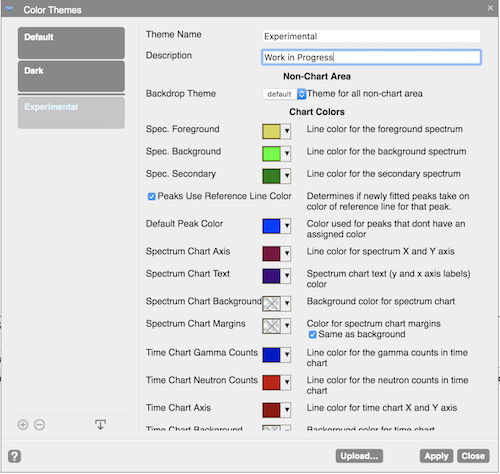
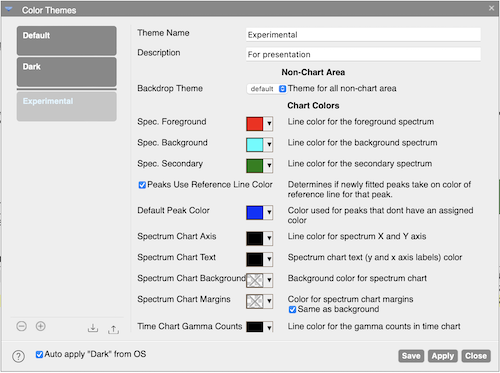
Created an option to control wether or not InterSpec will transition to the "dark" color theme when the OS does.
Previously there was no indication to the user that they had to create and select a custom color theme in order to prevent InterSpec from applying the OS color scheme.

diff --git a/js/InterSpec.js b/js/InterSpec.js
@@ -395,28 +395,43 @@ function()
 
 
 //Requires {macOS 10.14, iOS 13.0, iPadOS 13.0, Windows 10} and {Chrome 76, Safari 12.1, Firefox 67}
+
+WT_DECLARE_WT_MEMBER
+(DetectOsColorThemeJs, Wt::JavaScriptFunction, "DetectOsColorThemeJs",
+function(id)
+{
+  try
+  {
+    const darkQ = window.matchMedia('(prefers-color-scheme: dark)');
+    const lightQ = window.matchMedia('(prefers-color-scheme: light)');
+    const noPrefQ = window.matchMedia('(prefers-color-scheme: no-preference)');
+    
+    if( darkQ.matches )
+      Wt.emit( id, {name: 'OsColorThemeChange' }, 'dark' );
+    else if( lightQ.matches )
+      Wt.emit( id, {name: 'OsColorThemeChange' }, 'light' );
+    else if( noPrefQ.matches )
+      Wt.emit( id, {name: 'OsColorThemeChange' }, 'no-preference' );
+    else
+      throw 'no-support';
+  }catch(error)
+  {
+    Wt.emit( id, {name: 'OsColorThemeChange' }, 'no-support' );
+  }
+});
+
 WT_DECLARE_WT_MEMBER
 (SetupOsColorThemeChangeJs, Wt::JavaScriptFunction, "SetupOsColorThemeChangeJs",
 function(id)
 {
   try
   {
-    var darkQ = window.matchMedia('(prefers-color-scheme: dark)');
-    var lightQ = window.matchMedia('(prefers-color-scheme: light)');
-    var noPrefQ = window.matchMedia('(prefers-color-scheme: no-preference)');
-    var isSupported = darkQ.matches || lightQ.matches || noPrefQ.matches;
+    const darkQ = window.matchMedia('(prefers-color-scheme: dark)');
+    const lightQ = window.matchMedia('(prefers-color-scheme: light)');
+    const noPrefQ = window.matchMedia('(prefers-color-scheme: no-preference)');
     
-    if( !isSupported )
-      throw 'no-support';
-    
-    if( darkQ.matches )
-      Wt.emit( id, {name: 'OsColorThemeChange' }, 'dark' );
-    
-    if( lightQ.matches )
-      Wt.emit( id, {name: 'OsColorThemeChange' }, 'light' );
-    
-    if( noPrefQ.matches )
-      Wt.emit( id, {name: 'OsColorThemeChange' }, 'no-preference' );
+    if( !darkQ.matches && !lightQ.matches && !noPrefQ.matches )
+      console.warn( 'No matches for color scheme found.' );
     
     darkQ.addListener( function(e){
       if( e && e.matches )
@@ -435,7 +450,7 @@ function(id)
     
   }catch(error)
   {
-    Wt.emit( id, {name: 'OsColorThemeChange' }, 'no-support' );
+    console.warn( 'Color theme not supported:', error );
   }
 }
 );

diff --git a/src/InterSpec.cpp b/src/InterSpec.cpp
@@ -3876,45 +3876,41 @@ void InterSpec::osThemeChange( std::string name )
     return;
   }
   
+  //TODO: if( name == "no-support" ), then should hide widgets associated with "AutoDarkFromOs"
+  
   try
   {
-    const int colorThemIndex = m_user->preferenceValue<int>("ColorThemeIndex", this);
-    if( colorThemIndex >= 0 )
-      return;
+    const bool autoDark = InterSpecUser::preferenceValue<bool>( "AutoDarkFromOs", this );
     
-    const auto oldTheme = ColorTheme::PredefinedColorTheme(-colorThemIndex);
-    
-    if( oldTheme != ColorTheme::PredefinedColorTheme::DefaultColorTheme )
-      return;
-    
-    std::unique_ptr<ColorTheme> theme;
-    
-    if( name == "dark" )
+    if( autoDark && (name == "dark") )
     {
       //Check to see if we already have dark applied
       if( m_colorTheme && SpecUtils::icontains( m_colorTheme->theme_name.toUTF8(), "Dark") )
         return;
      
-      cout << "Will set to dark" << endl;
-      theme = ColorTheme::predefinedTheme( ColorTheme::PredefinedColorTheme::DarkColorTheme );
-    }else if( name == "light" || name == "default" || name == "no-preference" || name == "no-support" )
+      cout << "Will set to dark color theme" << endl;
+      unique_ptr<ColorTheme> theme = ColorTheme::predefinedTheme( ColorTheme::PredefinedColorTheme::DarkColorTheme );
+      assert( theme );
+      if( theme )
+        applyColorTheme( make_shared<ColorTheme>(*theme) );
+    }else if( !autoDark || name == "light" || name == "default" || name == "no-preference" || name == "no-support" )
     {
-      //Check to see if we already have light applied
-      if (m_colorTheme && SpecUtils::icontains(m_colorTheme->theme_name.toUTF8(), "Default"))
+      if( m_colorTheme
+         && (m_colorTheme->dbIndex < 0)
+         && (ColorTheme::PredefinedColorTheme(-m_colorTheme->dbIndex) == ColorTheme::PredefinedColorTheme::DarkColorTheme) )
       {
-        cout << "Already have light color theme applied." << endl;
-        return;
+        cout << "Will set to default or user specified color theme, from \"Dark\"." << endl;
+        
+        m_colorTheme = nullptr;
+        applyColorTheme( nullptr );
+      }else
+      {
+        cout << "Current theme is not \"Dark\", so not setting color theme." << endl;
       }
-
-      cout << "Will set to default" << endl;
-      theme = ColorTheme::predefinedTheme( ColorTheme::PredefinedColorTheme::DefaultColorTheme );
     }
-    
-    if( theme )
-      applyColorTheme( make_shared<ColorTheme>(*theme) );
-  }catch(...)
+  }catch( std::exception &e )
   {
-    cerr << "InterSpec::osThemeChange() caught exception - not doing anything" << endl;
+    cerr << "InterSpec::osThemeChange() caught exception - not doing anything:" << e.what() << endl;
   }
   
   cout << "Done applying color theme" << endl;
@@ -6947,6 +6943,20 @@ void InterSpec::addAboutMenu( Wt::WWidget *parent )
     InterSpecUser::associateWidget( m_user, "TabletUseDesktopMenus", checkbox, this );
   }//if( is tablet )
   
+  WCheckBox *autoDarkCb = new WCheckBox( " Auto apply \"Dark\" theme" );
+  item = subPopup->addWidget( autoDarkCb );
+  HelpSystem::attachToolTipOn( item, "Applies the \"Dark\" color theme automatically according to"
+                              " the operating systems current value, or when it transisitions.",
+                              true, HelpSystem::ToolTipPosition::Right );
+  InterSpecUser::associateWidget( m_user, "AutoDarkFromOs", autoDarkCb, this );
+  
+  InterSpecUser::addCallbackWhenChanged( m_user, "AutoDarkFromOs", std::bind([](){
+    InterSpec *viewer = InterSpec::instance();
+    if( viewer )
+      viewer->doJavaScript( "try{ Wt.WT.DetectOsColorThemeJs('" + viewer->id() + "'); }"
+                            "catch(e){ console.error('Error with DetectOsColorThemeJs:',e); }" );
+  }) );
+  
 	item = subPopup->addMenuItem("Color Themes...");
 	item->triggered().connect(boost::bind(&InterSpec::showColorThemeWindow, this));
 
@@ -8800,12 +8810,14 @@ std::set<int> InterSpec::validForegroundSamples() const
 #if( APPLY_OS_COLOR_THEME_FROM_JS && !BUILD_AS_OSX_APP && !IOS && !BUILD_AS_ELECTRON_APP )
 void InterSpec::initOsColorThemeChangeDetect()
 {
-  m_osColorThemeChange.reset( new JSignal<std::string>( this, "OsColorThemeChange", true ) );
+  m_osColorThemeChange.reset( new JSignal<std::string>( this, "OsColorThemeChange", false ) );
   m_osColorThemeChange->connect( boost::bind( &InterSpec::osThemeChange, this,
                                              boost::placeholders::_1 ) );
   
+  LOAD_JAVASCRIPT(wApp, "js/InterSpec.js", "InterSpec", wtjsDetectOsColorThemeJs);
   LOAD_JAVASCRIPT(wApp, "js/InterSpec.js", "InterSpec", wtjsSetupOsColorThemeChangeJs);
   
+  doJavaScript( "Wt.WT.DetectOsColorThemeJs('" + id() + "')" );
   doJavaScript( "Wt.WT.SetupOsColorThemeChangeJs('" + id() + "')" );
 }//void initOsColorThemeChangeDetect()
 #endif

diff --git a/src/ColorThemeWindow.cpp b/src/ColorThemeWindow.cpp
@@ -29,6 +29,7 @@
 #include <Wt/WText>
 #include <Wt/WAnchor>
 #include <Wt/WServer>
+#include <Wt/WCheckBox>
 #include <Wt/WResource>
 #include <Wt/WMenuItem>
 #include <Wt/WFileUpload>
@@ -253,6 +254,13 @@ m_apply( nullptr )
   
   WContainerWidget *foot = footer();
   AuxWindow::addHelpInFooter( foot, "color-theme-dialog" );
+  
+  WCheckBox *autoDarkCb = new WCheckBox( "Auto apply \"Dark\" from OS", foot );
+  autoDarkCb->setFloatSide( Wt::Side::Left );
+  autoDarkCb->setToolTip( "Apply the \"Dark\" color theme automatically according to"
+                          " the operating systems current value, or when it transisitions." );
+  
+  InterSpecUser::associateWidget(m_interspec->m_user, "AutoDarkFromOs", autoDarkCb, m_interspec);
   
   m_save = new WPushButton( "Save", foot );
   m_apply = new WPushButton( "Apply", foot );
